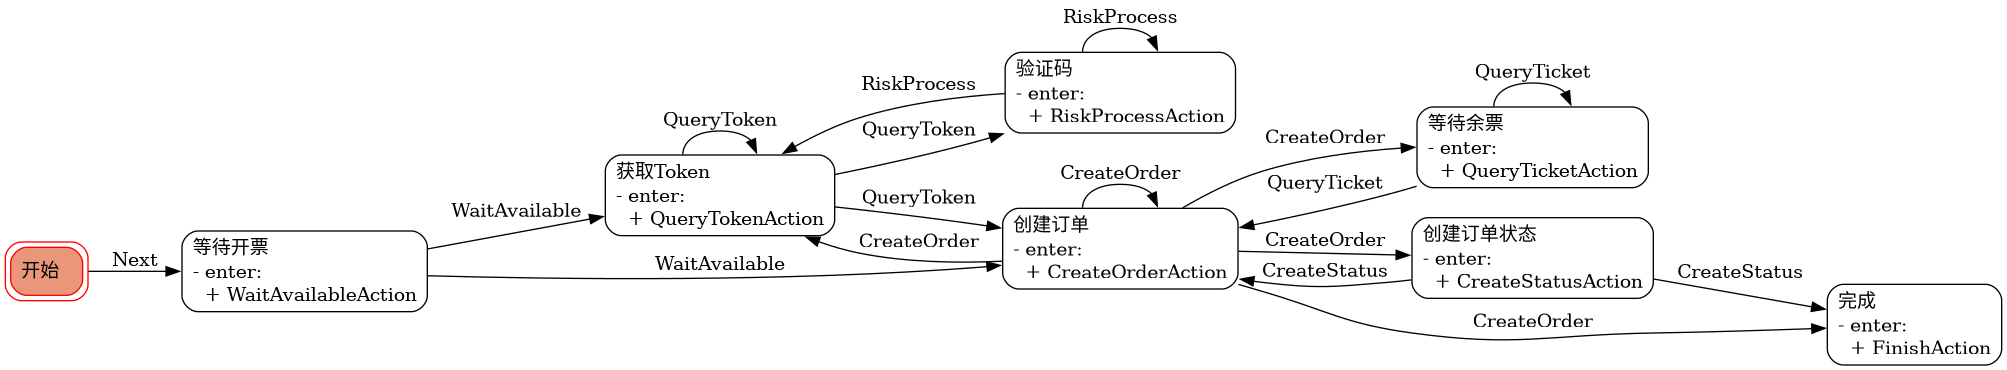
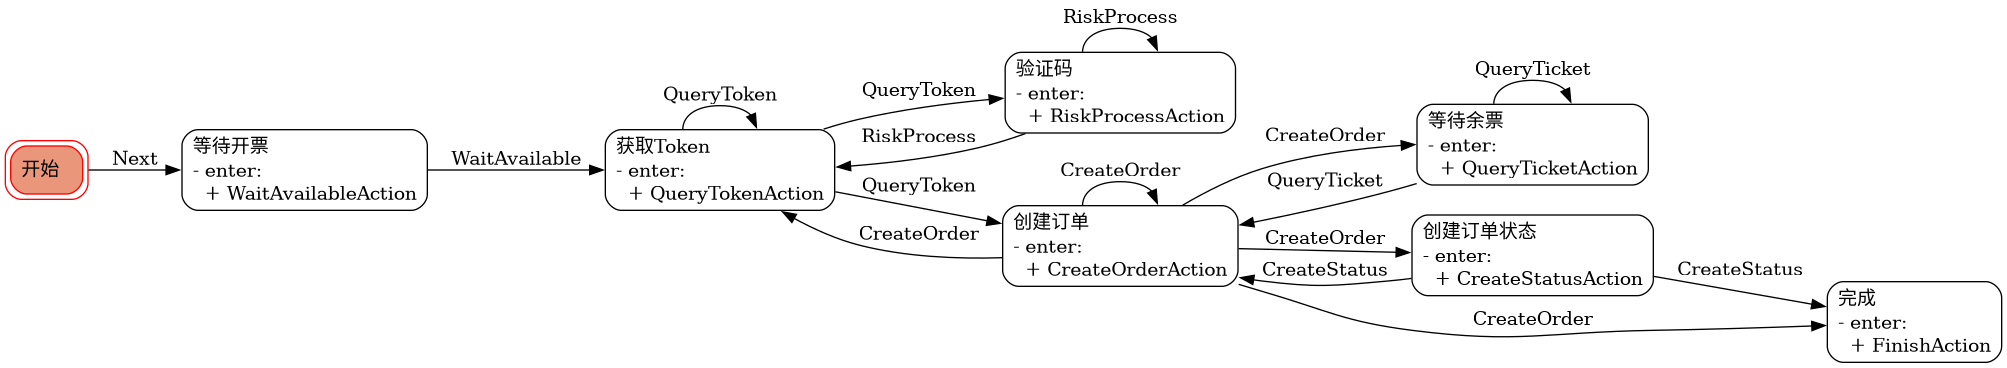
fix: 取消提前获取token 避免倒计时后爆炸

diff --git a/util/Task/__init__.py b/util/Task/__init__.py
@@ -110,16 +110,7 @@ class Task:
         self.machine.add_transition(
             trigger="WaitAvailable",
             source="等待开票",
-            dest="创建订单",
-            # 倒计时30s时已获取Token
-            conditions=lambda: self.skipToken,
-        )
-        self.machine.add_transition(
-            trigger="WaitAvailable",
-            source="等待开票",
             dest="获取Token",
-            # 无倒计时, 开始获取Token
-            conditions=lambda: not self.skipToken,
         )
 
         # 获取Token结束
@@ -161,6 +152,7 @@ class Task:
             conditions=lambda: self.riskProcessCode != 0,
         )
 
+        # 等待余票结束
         self.machine.add_transition(
             trigger="QueryTicket",
             source="等待余票",
@@ -279,13 +271,6 @@ class Task:
                     logger.info(f"【等待开票】准备开票! 需要等待 {countdown/60:.1f} 分钟")
                     sleep(5)
                     countdown -= 5
-
-                elif countdown == 30:
-                    logger.info("【等待开票】即将开票! 正在提前获取Token...")
-                    self.QueryTokenAction()
-                    self.skipToken = True
-                    if self.queryTokenCode == -401:
-                        self.RiskProcessAction()
 
                 elif 60 > countdown > 1:
                     logger.info(f"【等待开票】即将开票! 需要等待 {countdown-1} 秒")
